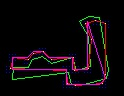
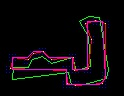
.

Changed region(s): [[0.7016, 0.1875, 0.871, 0.8125]]

diff --git a/grid.cpp b/grid.cpp
@@ -13,12 +13,13 @@ extern Scalar blue;
 
 // пока что на примере картинки с одним контуром реализую алгоритм Грибова
 void gribovAlgorithm() {
+    // Mat img = imread("../oneBuilding.jpeg");
     Mat img = imread("../oneBuilding.jpeg");
 
     Mat contoursImg;
     Canny(img, contoursImg, 100, 255);
-    imshow("Contours", contoursImg);
-    imwrite("../oneBuildingGrid.jpg", contoursImg);
+//    imshow("Contours", contoursImg);
+//    imwrite("../oneBuildingGrid.jpg", contoursImg);
 
     vector<vector<Point>> contours;
     findContours(contoursImg, contours, RETR_EXTERNAL, CHAIN_APPROX_SIMPLE);
@@ -82,7 +83,9 @@ void gribovAlgorithm() {
     int prevPointsCount = 3;
 
     for (int pointNum = 1; pointNum <= n; pointNum++) {
-        Point currentPoint = rotatedContour[pointNum];
+        int pointNumMod = pointNum % n; //
+        // Point currentPoint = rotatedContour[pointNum];
+        Point currentPoint = rotatedContour[pointNumMod];
         tempSC.clear();
         tempDA.clear();
         tempBPP.clear();
@@ -124,9 +127,15 @@ void gribovAlgorithm() {
             tempDA.push_back(minArea);
             tempBPP.push_back(bestPoint);
         }
-        sc.push_back(tempSC);
-        da.push_back(tempDA);
-        bpp.push_back(tempBPP);
+        if (pointNum == n) {
+            sc[0] = tempSC;
+            da[0] = tempDA;
+            bpp[0] = tempBPP;
+        } else {
+            sc.push_back(tempSC);
+            da.push_back(tempDA);
+            bpp.push_back(tempBPP);
+        }
     }
 
     // тут нужно соединить последнее и первое
@@ -184,13 +193,13 @@ void gribovAlgorithm() {
     int currentPointIndex = lastIndex;
     int currentAuxIndex = bestAuxIndex;
 
-    while (currentPointIndex > 0) {
-        if (currentPointIndex == 0) {
-
-        }
+    while (true) {
         Point currentPoint = auxilaryPoints[rotatedContour[currentPointIndex]][currentAuxIndex];
         rightContour.push_back(currentPoint);
         pair<int, int> prevCoord = bpp[currentPointIndex][currentAuxIndex];
+        if (currentPointIndex == 0) {
+            break;
+        }
         currentPointIndex = prevCoord.first;
         currentAuxIndex = prevCoord.second;
     }
